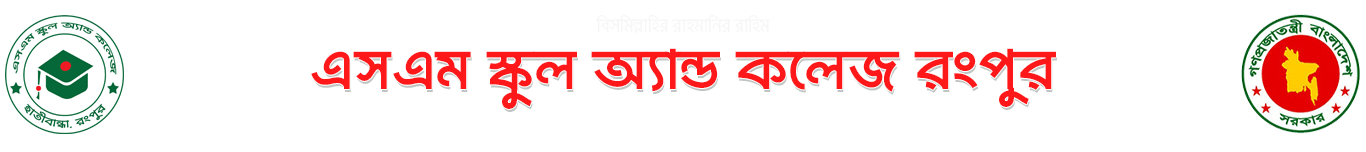
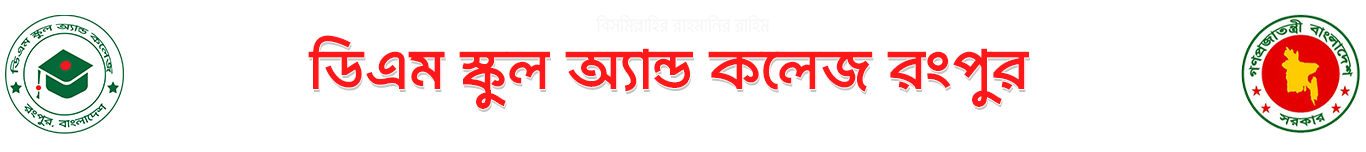
add

Changed region(s): [[0.2152, 0.2368, 0.7994, 0.7368], [0.0, 0.0789, 0.0922, 0.8947]]

diff --git a/inc/notice.php b/inc/notice.php
@@ -206,7 +206,7 @@ function dm_notice_plugin_page() {
             top: 50%;
             left: 50%;
             transform: translate(-50%, -50%);
-            background-color: var(--dm_white_color);
+            background-color: #ffffff;
             padding: 20px;
             box-shadow: 0px 0px 10px rgba(0, 0, 0, 0.5);
         }
@@ -362,7 +362,7 @@ function dm_notice_list_shortcode($atts) {
         $publish_date = get_the_date('d-m-Y', $dm_notice);
         $output .= '<tr>';
         $output .= '<td>' . esc_html($counter) . '</td>'; // Row number
-        $output .= '<td style="text-align:left"><a href="' . esc_url($pdf_url) . '" target="_blank" class="dm-notice-link" style="color: var(--dm_text_color); text-decoration: none;font-size: 16px;">' . esc_html($dm_notice->post_title) . '</a></td>';
+        $output .= '<td style="text-align:left"><a href="' . esc_url($pdf_url) . '" target="_blank" class="dm-notice-link" style="color: #000000; text-decoration: none;font-size: 16px;">' . esc_html($dm_notice->post_title) . '</a></td>';
         $output .= '<td>' . esc_html($publish_date) . '</td>';
         $output .= '<td><a href="' . esc_url($pdf_url) . '" download class="button button-primary">Download</a></td>';
         $output .= '</tr>';
@@ -386,16 +386,16 @@ function dm_notice_list_shortcode($atts) {
     $output .= '    border-bottom: 1px solid #cbcbcb;border-right: 1px solid #cbcbcb;';
     $output .= '}';
     $output .= '.dm-notice-list-table th {';
-    $output .= '    color:var(--dm_text_color);font-weight:bold';
+    $output .= '    color:#000000;font-weight:bold';
     $output .= '}';
     $output .= '.dm-notice-link {';
     $output .= '    text-decoration: none;';
     $output .= '}';
 	$output .= '.button.button-primary {
-    background-color: var(--dm_button_color);
+    background-color: #ffffff;
     border-radius: 25px;
-    color: var(--dm_white_color);
-    border: none;
+    color: #056839;
+    border: 1px solid #056839;
     padding: 2px 10px;
     padding-top: 6px;
     border-radius: 25px;
@@ -405,9 +405,9 @@ function dm_notice_list_shortcode($atts) {
     text-transform: capitalize}';
 	$output .= '
 	.button.button-primary:hover {
-		background-color: var(--dm_button_hover_color);
-		color: var(--dm_white_color);
-		border-color:#006a4e;
+		background-color: #056839;
+		color: #ffffff;
+		border-color:#056839;
 	} ';
     $output .= '.date-column {';
     $output .= '    width: 20%; /* Set the width of the date column */';
@@ -496,15 +496,15 @@ function dm_notice_list_title_shortcode($atts) {
     $output .= '    border-bottom: 1px solid #cbcbcb; border-right: 1px solid #cbcbcb;';
     $output .= '}';
     $output .= '.dm-notice-list-table th {';
-    $output .= '    color: var(--dm_text_color); font-weight: bold;';
+    $output .= '    color: #000000; font-weight: bold;';
     $output .= '}';
     $output .= '.dm-notice-link-title {';
-    $output .= '    text-decoration: none;color:var(--dm_text_color);';
+    $output .= '    text-decoration: none;color:#000000;';
     $output .= '}';
 	$output .= '.button.button-primary {
-    background-color: var(--dm_white_color);
+    background-color: #ffffff;
     border-radius: 25px;
-    color: var(--dm_text_color);
+    color: #000000;
     border: 1px solid #cbcbcb;
     padding: 2px 10px;
     padding-top: 6px;
@@ -516,13 +516,13 @@ function dm_notice_list_title_shortcode($atts) {
 	$output .= '
 	.button.button-primary:hover {
 		background-color: #006a4e;
-		color: var(--dm_white_color);
+		color: #ffffff;
 		border-color:#006a4e;
 	} ';
     $output .= '.newAnimate {';
     $output .= '    background: red;';
     $output .= '    padding: 0px 8px;';
-    $output .= '    color: var(--dm_white_color);';
+    $output .= '    color: #ffffff;';
     $output .= '    border-radius: 100%;';
     $output .= '    margin-right: 5px;';
     $output .= '    font-size: 10px;';

diff --git a/inc/history_post.php b/inc/history_post.php
@@ -4,7 +4,7 @@ function custom_history() {
   register_post_type('history',
     array(
       'labels' => array(
-        'name' => __('History'),             // Change "Messages" to "History"
+        'name' => __('DM History'),             // Change "Messages" to "History"
         'singular_name' => __('History'),    // Change "Message" to "History"
         'add_new' => __('Add New History'),  // Change "Add New Message" to "Add New History"
         'add_new_item' => __('Add New History'),
@@ -27,10 +27,10 @@ function custom_history() {
     )
   );
 
-  // Add custom taxonomy 'designation' to the custom post type 'history'
-  register_taxonomy('designation', 'history', array(
-    'label' => __('Designation'),
-    'rewrite' => array('slug' => 'designation'),
+  // Add custom taxonomy 'category' to the custom post type 'history'
+  register_taxonomy('category', 'history', array(
+    'label' => __('category'),
+    'rewrite' => array('slug' => 'category'),
     'hierarchical' => true,
     'show_admin_column' => true,
   ));
@@ -48,8 +48,8 @@ add_action('init', 'custom_history');
     $atts = shortcode_atts(array(
         'length' => 100,           // Default description length
         'limit' => -1,             // Default to display all history posts
-        'designation' => '',       // Default to show history posts from all designations
-        'designation_output' => true,  // Default to true, meaning it will show the designation
+        'category' => '',       // Default to show history posts from all designations
+        'designation_output' => true,  // Default to true, meaning it will show the category
     ), $atts);
   
     // Query parameters
@@ -59,11 +59,11 @@ add_action('init', 'custom_history');
         'tax_query' => array(),
     );
   
-    if (!empty($atts['designation'])) {
+    if (!empty($atts['category'])) {
         $args['tax_query'][] = array(
-            'taxonomy' => 'designation',
+            'taxonomy' => 'category',
             'field' => 'slug',
-            'terms' => $atts['designation'],
+            'terms' => $atts['category'],
         );
     }
   
@@ -88,11 +88,11 @@ add_action('init', 'custom_history');
                 </div>
                                   <!-- <?php
                 if ($atts['designation_output']) {
-                    $terms = get_the_terms(get_the_ID(), 'designation');
+                    $terms = get_the_terms(get_the_ID(), 'category');
                     if ($terms && !is_wp_error($terms)) {
-                        echo '<div class="designation">';
+                        echo '<div class="category">';
                         foreach ($terms as $term) {
-                            echo '<span class="designation-term">' . esc_html($term->name) . '</span>';
+                            echo '<span class="category-term">' . esc_html($term->name) . '</span>';
                         }
                         echo '</div>';
                     }

diff --git a/inc/class_routine.php b/inc/class_routine.php
@@ -207,7 +207,7 @@ function dm_class_routine_plugin_page() {
             top: 50%;
             left: 50%;
             transform: translate(-50%, -50%);
-            background-color: var(--dm_white_color);
+            background-color: #ffffff;
             padding: 20px;
             box-shadow: 0px 0px 10px rgba(0, 0, 0, 0.5);
         }
@@ -398,10 +398,10 @@ function dm_class_routine_list_shortcode($atts) {
     $output .= '    text-decoration: none;';
     $output .= '}';
 	$output .= '.button.button-primary {
-    background-color: #fff;
+    background-color: #ffffff;
     border-radius: 25px;
-    color: #000;
-    border: 1px solid #cbcbcb;
+    color: #056839;
+    border: 1px solid #056839;
     padding: 2px 10px;
     padding-top: 6px;
     border-radius: 25px;
@@ -410,11 +410,11 @@ function dm_class_routine_list_shortcode($atts) {
     font-size: 14px;
     text-transform: capitalize}';
 	$output .= '
-.button.button-primary:hover {
-    background-color: #006a4e;
-    color: #fff;
-	border-color:#006a4e;
-} ';
+	.button.button-primary:hover {
+		background-color: #056839;
+		color: #ffffff;
+		border-color:#056839;
+	} ';
     $output .= '</style>';
 
     return $output;

diff --git a/inc/exam_routine.php b/inc/exam_routine.php
@@ -207,7 +207,7 @@ function dm_exam_routine_plugin_page() {
             top: 50%;
             left: 50%;
             transform: translate(-50%, -50%);
-            background-color: var(--dm_white_color);
+            background-color: #ffffff;
             padding: 20px;
             box-shadow: 0px 0px 10px rgba(0, 0, 0, 0.5);
         }
@@ -394,10 +394,10 @@ function dm_exam_routine_list_shortcode($atts) {
     $output .= '    text-decoration: none;';
     $output .= '}';
 	$output .= '.button.button-primary {
-    background-color: #fff;
+    background-color: #ffffff;
     border-radius: 25px;
-    color: #000;
-    border: 1px solid #cbcbcb;
+    color: #056839;
+    border: 1px solid #056839;
     padding: 2px 10px;
     padding-top: 6px;
     border-radius: 25px;
@@ -407,9 +407,9 @@ function dm_exam_routine_list_shortcode($atts) {
     text-transform: capitalize}';
 	$output .= '
 	.button.button-primary:hover {
-		background-color: #006a4e;
-		color: #fff;
-		border-color:#006a4e;
+		background-color: #056839;
+		color: #ffffff;
+		border-color:#056839;
 	} ';
     $output .= '.date-column {';
     $output .= '    width: 20%; /* Set the width of the date column */';

diff --git a/template-parts/post_setup.php b/template-parts/post_setup.php
@@ -4,7 +4,7 @@
               <div class="dm_blog_post_area">
                   <span class="dashicons dashicons-format-<?php echo get_post_format( $post->ID ) ?>"></span>
                   
-                  <div class="dm_blog_post_thumb">
+                  <div style="margin-top:10px" class="dm_blog_post_thumb">
                     <a href="<?php the_permalink(); ?>"><?php echo the_post_thumbnail('post-thumbnails'); ?></a>
                   </div>
                   <div class="dm_post_details">

diff --git a/inc/teachers.php b/inc/teachers.php
@@ -23,8 +23,8 @@ function register_dm_teacher_post_type() {
         'labels' => $labels,
         'public' => true,
         'has_archive' => false,
-        'supports' => array('title', 'thumbnail',),
-        'rewrite' => array('slug' => 'dm_teachers'),
+        'supports' => array('title', 'thumbnail', 'editor',),
+        'rewrite' => array('slug' => 'teachers'),
         'menu_icon' => 'dashicons-buddicons-buddypress-logo', // Fallback Dashicon
 		'menu_position' => 5, 
     );

diff --git a/inc/governing_member.php b/inc/governing_member.php
@@ -195,7 +195,7 @@ function dm_gbm_plugin_page() {
             top: 50%;
             left: 50%;
             transform: translate(-50%, -50%);
-            background-color: var(--dm_white_color);
+            background-color: #ffffff;
             padding: 20px;
             box-shadow: 0px 0px 10px rgba(0, 0, 0, 0.5);
         }

diff --git a/inc/message_post.php b/inc/message_post.php
@@ -4,7 +4,7 @@ function dm_message() {
   register_post_type('message',
     array(
       'labels' => array(
-        'name' => __('Messages'),
+        'name' => __('DM Messages'),
         'singular_name' => __('Message'),
         'add_new' => __('Add New Message'),
         'add_new_item' => __('Add New Message'),
